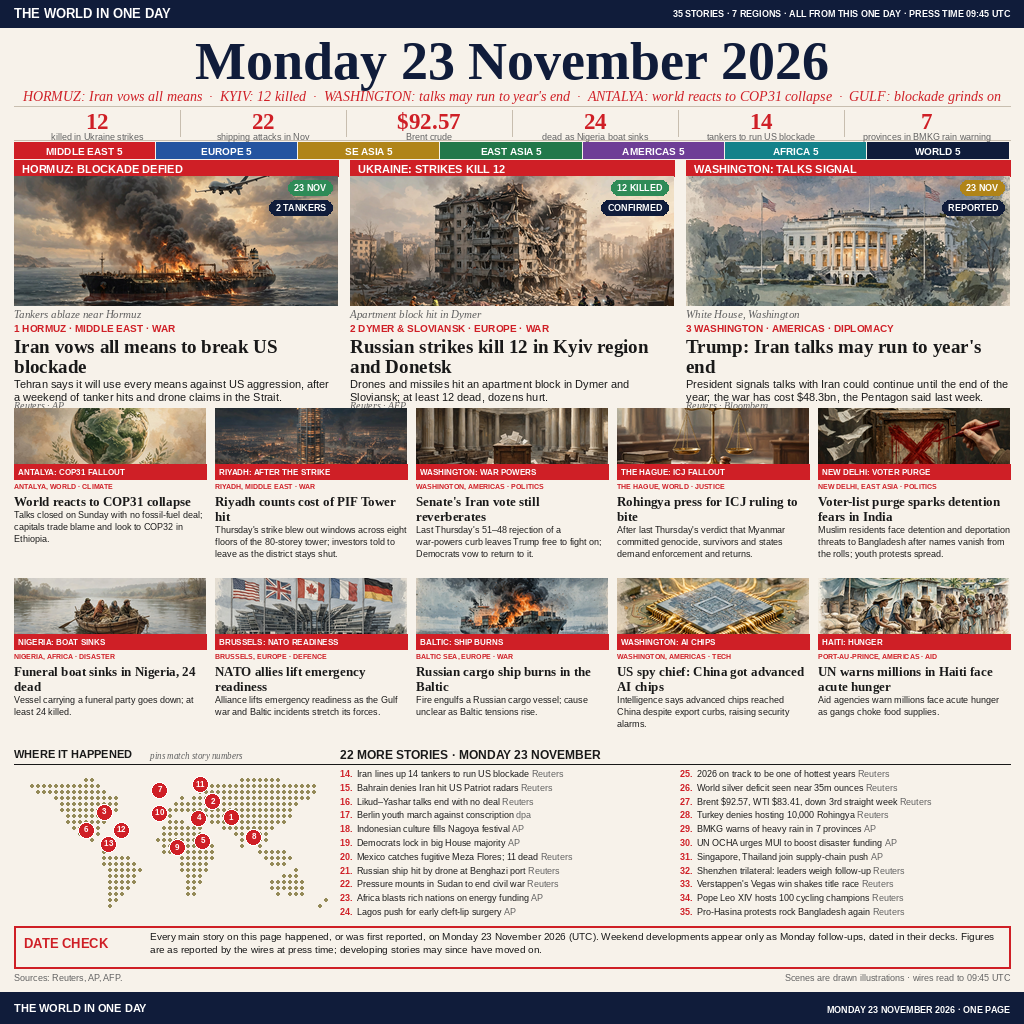
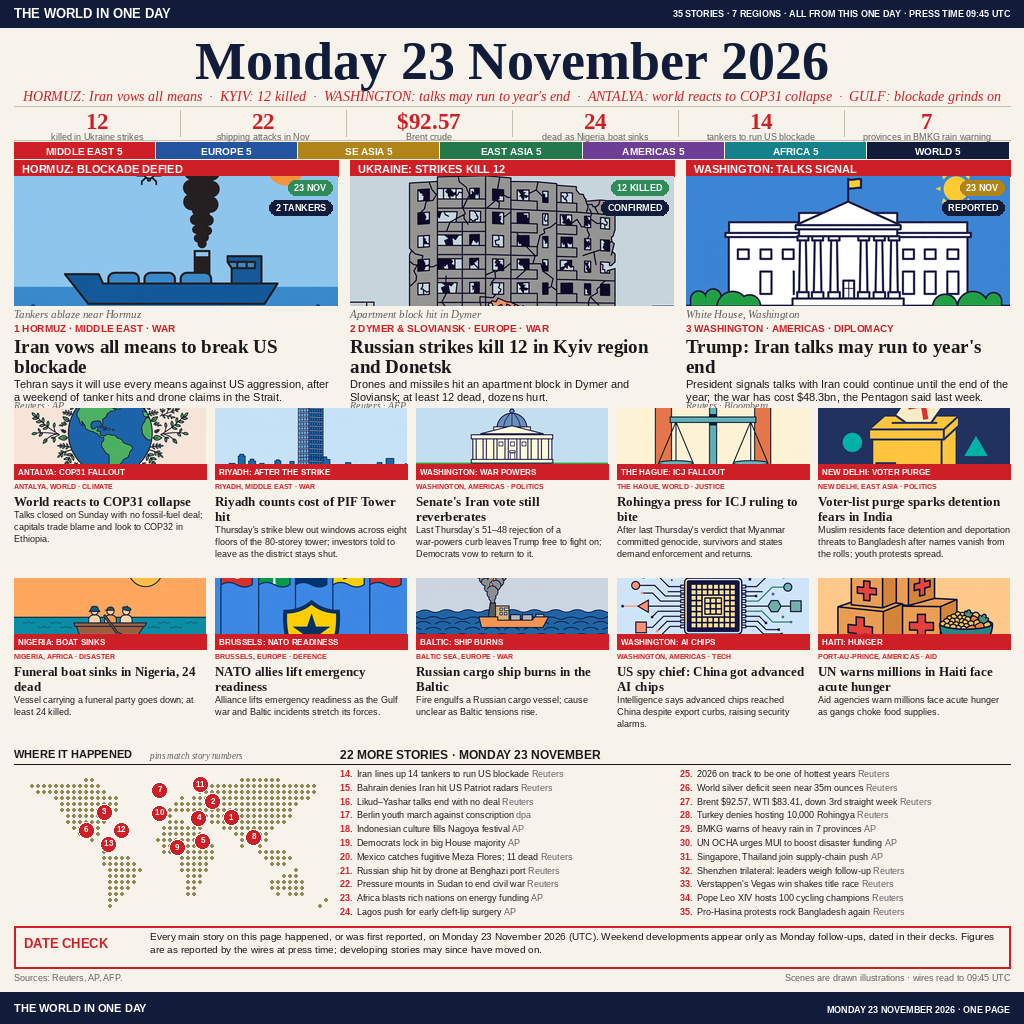
v2 2D: flat vector thumbnails (Mana correction)

Changed region(s): [[0.0, 0.1562, 1.0, 0.3125], [0.0, 0.375, 1.0, 0.4688], [0.0, 0.5625, 1.0, 0.625]]

diff --git a/build_v2.py b/build_v2.py
@@ -87,7 +87,12 @@ def cover(img, w, h):
 
 
 def load_thumb(name):
-    p = os.path.join(V1, name) if name.startswith("thumb") else os.path.join(HERE, name)
+    if name.startswith("thumb"):
+        p = os.path.join(V1, name)
+    elif name.startswith("flat"):
+        p = os.path.join(HERE, "thumbs2d", name)
+    else:
+        p = os.path.join(HERE, name)
     return Image.open(p).convert("RGB")
 
 
@@ -109,7 +114,7 @@ TABS = ["MIDDLE EAST 5", "EUROPE 5", "SE ASIA 5", "EAST ASIA 5",
 
 HEROES = [
     dict(bar="HORMUZ: BLOCKADE DEFIED", badge="23 NOV", badge_c=GREEN,
-         tag="2 TANKERS", img="thumb01.png",
+         tag="2 TANKERS", img="flat01_hormuz.png",
          caption="Tankers ablaze near Hormuz",
          loc="1 HORMUZ \u00b7 MIDDLE EAST \u00b7 WAR",
          head="Iran vows all means to break US blockade",
@@ -117,7 +122,7 @@ HEROES = [
                "after a weekend of tanker hits and drone claims in the Strait."),
          src="Reuters \u00b7 AP"),
     dict(bar="UKRAINE: STRIKES KILL 12", badge="12 KILLED", badge_c=GREEN,
-         tag="CONFIRMED", img="thumb02.png",
+         tag="CONFIRMED", img="flat02_dymer.png",
          caption="Apartment block hit in Dymer",
          loc="2 DYMER & SLOVIANSK \u00b7 EUROPE \u00b7 WAR",
          head="Russian strikes kill 12 in Kyiv region and Donetsk",
@@ -125,7 +130,7 @@ HEROES = [
                "Sloviansk; at least 12 dead, dozens hurt."),
          src="Reuters \u00b7 AFP"),
     dict(bar="WASHINGTON: TALKS SIGNAL", badge="23 NOV", badge_c=GOLD,
-         tag="REPORTED", img="new01.png",
+         tag="REPORTED", img="flat03_whitehouse.png",
          caption="White House, Washington",
          loc="3 WASHINGTON \u00b7 AMERICAS \u00b7 DIPLOMACY",
          head="Trump: Iran talks may run to year's end",
@@ -135,51 +140,51 @@ HEROES = [
 ]
 
 CARDS = [
-    dict(bar="ANTALYA: COP31 FALLOUT", img="thumb04.png",
+    dict(bar="ANTALYA: COP31 FALLOUT", img="flat04_cop31.png",
          loc="ANTALYA, WORLD \u00b7 CLIMATE",
          head="World reacts to COP31 collapse",
          deck=("Talks closed on Sunday with no fossil-fuel deal; capitals trade "
                "blame and look to COP32 in Ethiopia.")),
-    dict(bar="RIYADH: AFTER THE STRIKE", img="thumb06.png",
+    dict(bar="RIYADH: AFTER THE STRIKE", img="flat05_piftower.png",
          loc="RIYADH, MIDDLE EAST \u00b7 WAR",
          head="Riyadh counts cost of PIF Tower hit",
          deck=("Thursday's strike blew out windows across eight floors of the "
                "80-storey tower; investors told to leave as the district stays shut.")),
-    dict(bar="WASHINGTON: WAR POWERS", img="thumb07.png",
+    dict(bar="WASHINGTON: WAR POWERS", img="flat06_senate.png",
          loc="WASHINGTON, AMERICAS \u00b7 POLITICS",
          head="Senate's Iran vote still reverberates",
          deck=("Last Thursday's 51\u201348 rejection of a war-powers curb leaves "
                "Trump free to fight on; Democrats vow to return to it.")),
-    dict(bar="THE HAGUE: ICJ FALLOUT", img="thumb08.png",
+    dict(bar="THE HAGUE: ICJ FALLOUT", img="flat07_icj.png",
          loc="THE HAGUE, WORLD \u00b7 JUSTICE",
          head="Rohingya press for ICJ ruling to bite",
          deck=("After last Thursday's verdict that Myanmar committed genocide, "
                "survivors and states demand enforcement and returns.")),
-    dict(bar="NEW DELHI: VOTER PURGE", img="thumb09.png",
+    dict(bar="NEW DELHI: VOTER PURGE", img="flat08_ballot.png",
          loc="NEW DELHI, EAST ASIA \u00b7 POLITICS",
          head="Voter-list purge sparks detention fears in India",
          deck=("Muslim residents face detention and deportation threats to "
                "Bangladesh after names vanish from the rolls; youth protests spread.")),
-    dict(bar="NIGERIA: BOAT SINKS", img="thumb10.png",
+    dict(bar="NIGERIA: BOAT SINKS", img="flat09_boat.png",
          loc="NIGERIA, AFRICA \u00b7 DISASTER",
          head="Funeral boat sinks in Nigeria, 24 dead",
          deck="Vessel carrying a funeral party goes down; at least 24 killed."),
-    dict(bar="BRUSSELS: NATO READINESS", img="new02.png",
+    dict(bar="BRUSSELS: NATO READINESS", img="flat10_nato.png",
          loc="BRUSSELS, EUROPE \u00b7 DEFENCE",
          head="NATO allies lift emergency readiness",
          deck=("Alliance lifts emergency readiness as the Gulf war and Baltic "
                "incidents stretch its forces.")),
-    dict(bar="BALTIC: SHIP BURNS", img="new03.png",
+    dict(bar="BALTIC: SHIP BURNS", img="flat11_baltic.png",
          loc="BALTIC SEA, EUROPE \u00b7 WAR",
          head="Russian cargo ship burns in the Baltic",
          deck=("Fire engulfs a Russian cargo vessel; cause unclear as Baltic "
                "tensions rise.")),
-    dict(bar="WASHINGTON: AI CHIPS", img="new04.png",
+    dict(bar="WASHINGTON: AI CHIPS", img="flat12_chip.png",
          loc="WASHINGTON, AMERICAS \u00b7 TECH",
          head="US spy chief: China got advanced AI chips",
          deck=("Intelligence says advanced chips reached China despite export "
                "curbs, raising security alarms.")),
-    dict(bar="HAITI: HUNGER", img="new05.png",
+    dict(bar="HAITI: HUNGER", img="flat13_haiti.png",
          loc="PORT-AU-PRINCE, AMERICAS \u00b7 AID",
          head="UN warns millions in Haiti face acute hunger",
          deck=("Aid agencies warn millions face acute hunger as gangs choke "
